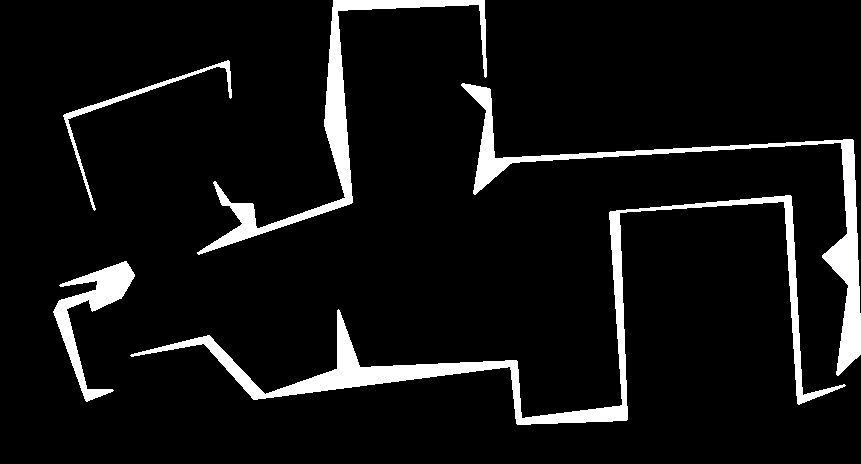
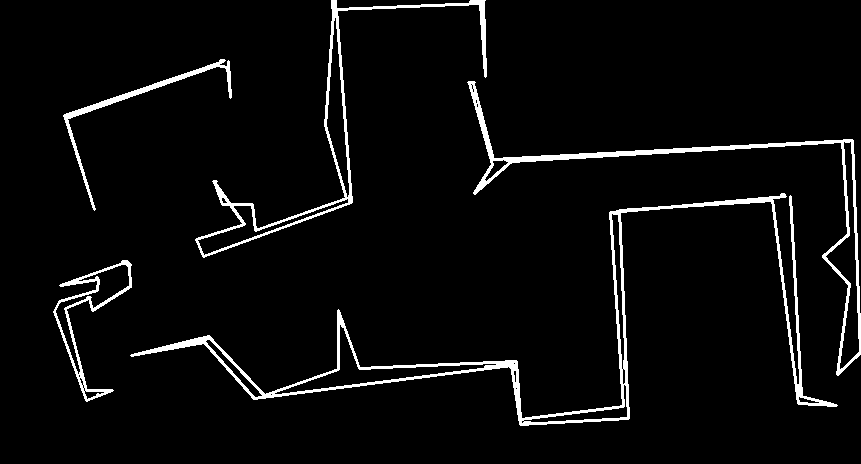
update

diff --git a/utils.py b/utils.py
@@ -43,11 +43,11 @@ def draw_lines(image_shape, lines, color=(255, 255, 255), thickness=2):
     """
     Draw lines on a blank canvas.
     """
-    line_image = np.zeros((image_shape[0], image_shape[1], 3), dtype=np.uint8)
+    line_image = np.zeros(binary_image.shape, dtype=np.uint8)
     if lines is not None:
         for line in lines:
             x1, y1, x2, y2 = line[0]
-            cv2.line(line_image, (x1, y1), (x2, y2), color, thickness)
+            cv2.line(line_image, pt1, pt2, 255, thickness=2)
     return line_image
 
 def extract_wall_contours(binary_image, min_area=500):
@@ -62,6 +62,89 @@ def extract_wall_contours(binary_image, min_area=500):
         if cv2.contourArea(contour) > min_area:
             cv2.drawContours(contour_img, [contour], -1, 255, thickness=cv2.FILLED)
     return contour_img
+
+def extract_wall_segments_as_lines(binary_image, min_area=500, epsilon_factor=0.01):
+    """
+    Converts wall blobs into individual, unconnected line segments (no closed polygons).
+    """
+    contours, _ = cv2.findContours(binary_image, cv2.RETR_EXTERNAL, cv2.CHAIN_APPROX_SIMPLE)
+    line_img = np.zeros(binary_image.shape, dtype=np.uint8)
+
+    for cnt in contours:
+        if cv2.contourArea(cnt) > min_area:
+            epsilon = epsilon_factor * cv2.arcLength(cnt, True)
+            approx = cv2.approxPolyDP(cnt, epsilon, False)  # <-- not closed
+
+            for i in range(len(approx) - 1):  # don't wrap around
+                pt1 = tuple(approx[i][0])
+                pt2 = tuple(approx[i + 1][0])
+                cv2.line(line_img, pt1, pt2, 255, thickness=2)
+
+    return line_img
+
+
+def snap_line_endpoints(line_img, max_distance=10):
+    """
+    Find disconnected line ends and connect them if close.
+    """
+    # Convert to grayscale + find edges
+    gray = line_img
+    edges = cv2.Canny(gray, 50, 150)
+
+    # Find contours of the drawn lines
+    contours, _ = cv2.findContours(edges, cv2.RETR_EXTERNAL, cv2.CHAIN_APPROX_SIMPLE)
+
+    # Collect all line endpoints
+    endpoints = []
+    for cnt in contours:
+        cnt = cnt.squeeze()
+        if len(cnt.shape) == 2 and len(cnt) > 1:
+            endpoints.append(tuple(cnt[0]))         # start
+            endpoints.append(tuple(cnt[-1]))        # end
+
+    # Connect endpoints that are close together
+    for i, pt1 in enumerate(endpoints):
+        for j, pt2 in enumerate(endpoints):
+            if i != j:
+                dist = np.linalg.norm(np.array(pt1) - np.array(pt2))
+                if dist < max_distance:
+                    cv2.line(line_img, pt1, pt2, (255, 255, 255), thickness=2)
+
+    return line_img
+
+    
+def connect_line_endpoints(lines, image_shape, max_distance=100):
+    """
+    Connects line endpoints that are close to each other.
+    """
+    if lines is None:
+        return np.zeros((image_shape[0], image_shape[1], 3), dtype=np.uint8)
+
+    # Extract endpoints
+    endpoints = []
+    for line in lines:
+        x1, y1, x2, y2 = line[0]
+        endpoints.extend([(x1, y1), (x2, y2)])
+
+    # Create a copy of the canvas to draw
+    canvas = np.zeros((image_shape[0], image_shape[1], 3), dtype=np.uint8)
+
+    # Redraw original lines
+    for line in lines:
+        x1, y1, x2, y2 = line[0]
+        cv2.line(canvas, (x1, y1), (x2, y2), (255, 255, 255), 2)
+
+    # Connect nearby endpoints
+    for i in range(len(endpoints)):
+        for j in range(i + 1, len(endpoints)):
+            pt1 = endpoints[i]
+            pt2 = endpoints[j]
+            distance = np.linalg.norm(np.array(pt1) - np.array(pt2))
+            if distance < max_distance:
+                cv2.line(canvas, pt1, pt2, (255, 255, 255), 2)
+
+    return canvas
+
 
 def polygonize_contours(binary_image, min_area=500, epsilon_factor=0.01):
     """

diff --git a/main.py b/main.py
@@ -8,6 +8,9 @@ from utils import (
     extract_wall_contours,
     polygonize_contours,
     save_image,
+    connect_line_endpoints,
+    snap_line_endpoints,
+    extract_wall_segments_as_lines
 )
 
 DATA_DIR = "./data"
@@ -32,17 +35,31 @@ for filename in os.listdir(DATA_DIR):
 
         # === 3. Extract raw and filtered contours
         raw_contours = extract_wall_contours(cleaned_binary, min_area=0)          # all
-        filtered_contours = extract_wall_contours(cleaned_binary, min_area=500)   # walls only
+        filtered_contours = extract_wall_contours(cleaned_binary, min_area=200)   # walls only
 
         # === 4. Straight line detection (Hough)
         lines = detect_lines(edges)
-        line_image = draw_lines(edges.shape, lines)
+        line_image = connect_line_endpoints(lines, edges.shape, max_distance=10)
+
 
         # === 5. Polygonal wall simplification
-        polygonal_walls = polygonize_contours(filtered_contours)
+        
+        polygonal_walls = extract_wall_segments_as_lines(filtered_contours)
+        polygonal_walls = snap_line_endpoints(polygonal_walls)
+
 
         # === 6. Combine everything (polygon walls + straight lines)
-        combined = cv2.bitwise_or(polygonal_walls, cv2.cvtColor(line_image, cv2.COLOR_BGR2GRAY))
+        # Convert line image to grayscale if needed
+        line_gray = cv2.cvtColor(line_image, cv2.COLOR_BGR2GRAY) if line_image.ndim == 3 else line_image
+        poly_gray = cv2.cvtColor(polygonal_walls, cv2.COLOR_BGR2GRAY) if polygonal_walls.ndim == 3 else polygonal_walls
+
+        # Ensure size match (optional safety check)
+        if line_gray.shape != poly_gray.shape:
+            line_gray = cv2.resize(line_gray, (poly_gray.shape[1], poly_gray.shape[0]))
+
+        # Combine safely
+        combined = cv2.bitwise_or(poly_gray, line_gray)
+
 
         # === 7. Save all outputs
         save_image(image, os.path.join(room_output_dir, "1_original.png"))
